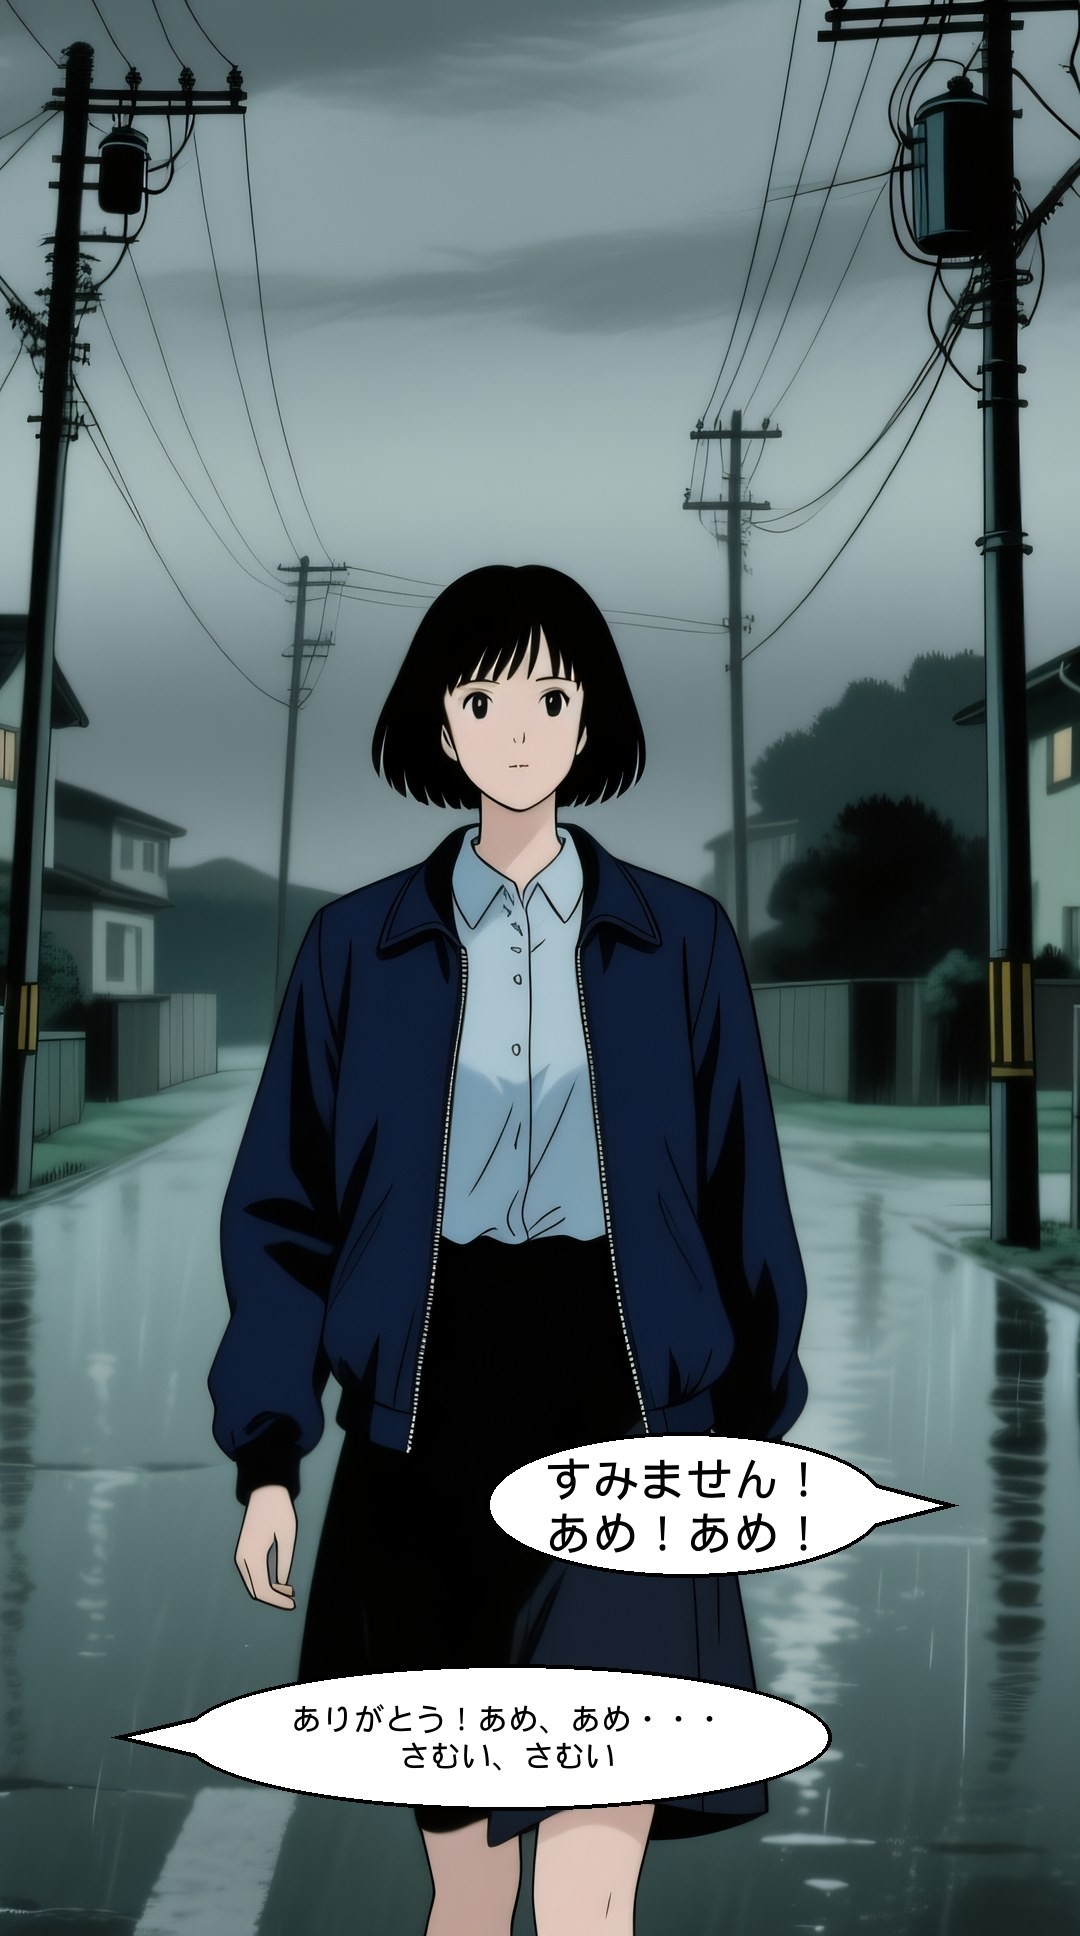
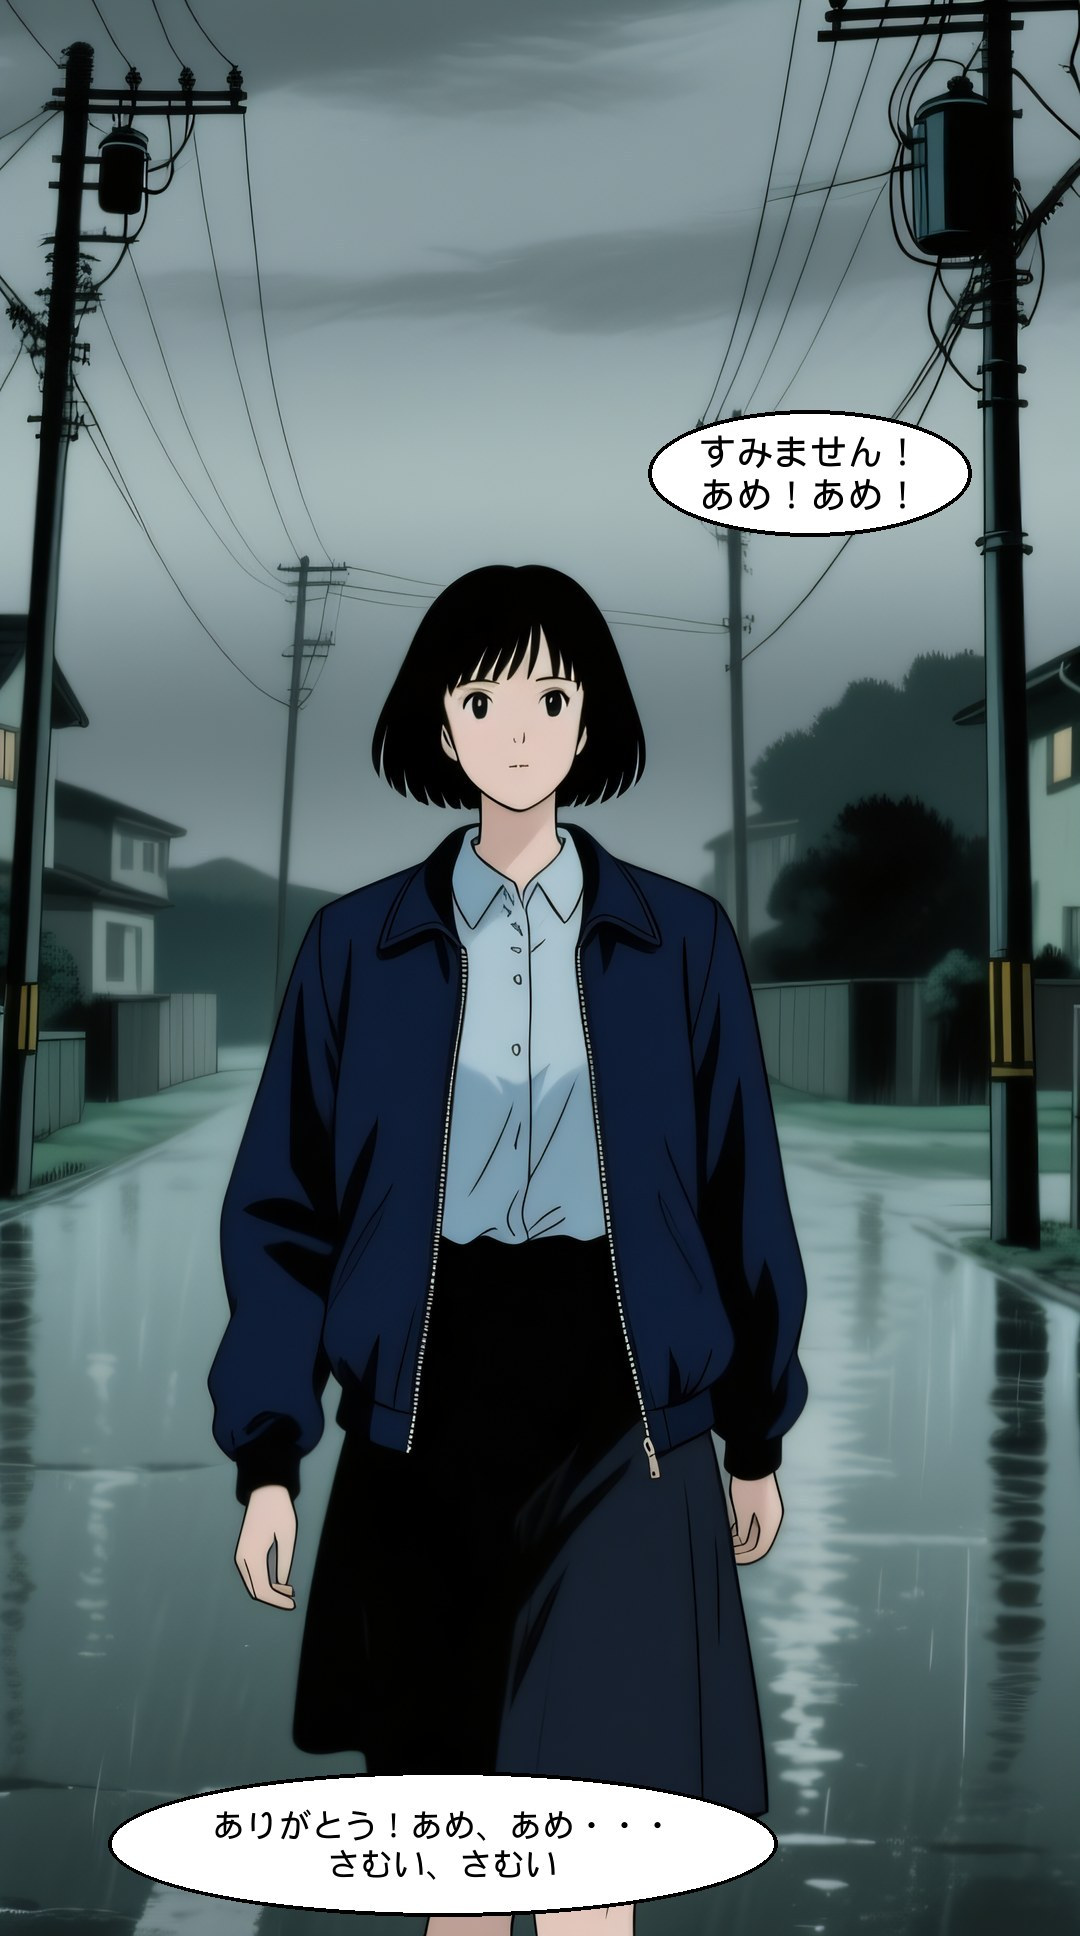
feat(comic): Schilder als Kasten, keine Off-Zeiger — Folge 01 neu gelettert
Blasen mit "form": "schild" (P1 みなみまち駅, P4 傘, P9 あめやどり) werden als
rechteckiges Schild-Etikett gezeichnet; Gesichts- und Nogo-Prüfung nutzen das
volle Rechteck. Das Feld "off" samt Zeiger-Zeichnung und -Prüfung ist
entfernt. Folge 01 beide Formate neu gelettert (ohne „…“-Blasen; P3 hoch,
P7 quer, P8 hoch weg von Miras Gesicht/Körper).

Claude-Session: https://claude.ai/code/session_01YT3vxdimKnf5CxqKiS26Tx

Changed region(s): [[0.0917, 0.7128, 0.8861, 0.9917], [0.5806, 0.186, 0.9167, 0.2789]]

diff --git a/tool/comic/letter_folge01.py b/tool/comic/letter_folge01.py
@@ -10,12 +10,12 @@ ueber das Bild legt (Erzaehlkasten oben, Mitmach-/Reaktionszeile unten). Eine Bl
 eine davon schneidet → ÜBERLAGERUNG (gleiche Ellipsen-Rechteck-Mathematik wie bei Gesichtern).
 Mindest-Schrift: faellt fit_font unter MIN_FONT (quer 34 px auf 1920 breit, hoch 30 px auf 1080
 breit) → KLEINSCHRIFT; Abhilfe ist immer eine groessere Blase im Layout, nie kleinere Schrift.
-Off-Zeiger: eine Blase mit "off": "left"|"right"|"top"|"bottom" spricht von ausserhalb des Bildes
-(Sprecher steht in dieser Richtung hinter dem Bildrand) und bekommt einen kurzen, spitz zulaufenden
-Zeiger (0,5 × Blasenhoehe lang) vom Ovalrand zu diesem Bildrand — gleiche Fuellung/Kontur wie das Oval.
-Der Zeiger-Keil wird wie die Ellipse auf Gesichter (GESICHT VERDECKT), Nogo-Zonen (ÜBERLAGERUNG),
-sichere Zone und Bildrand (SICHERE ZONE) geprueft; die Tippflaeche bleibt das Oval-Rechteck.
-Blasen ohne "off" werden unveraendert (byte-gleich) gezeichnet.
+Schilder: eine Blase mit "form": "schild" (Stations-, Laden-, Caféschild) wird als rechteckiges
+Schild-Etikett gezeichnet (gerade Kanten, duenne dunkle Kontur, helle Fuellung, kleiner Eckradius) statt
+als Oval — gleiche Schrift, Einpassung und Furigana. Gesichter und Nogo-Zonen werden dann gegen das
+volle Rechteck geprueft (Rechteck-Rechteck statt Ellipse-Rechteck). Ohne "form" bleibt es das Oval.
+Es gibt keine Zeiger: Spricht jemand von ausserhalb des Bildes, steht die Blase am Bildrand auf seiner
+Seite, und der Erzaehltext nennt ihn.
 Die Reihenfolge der Blasen je Panel und Format in folge01_layout.json ist verbindlich und muss der
 Reihenfolge in lib/features/story/episodes/folge_01_regen.dart entsprechen (geprueft von
 test/features/story/folge_01_layout_test.dart).
@@ -38,69 +38,19 @@ def out_name(pid, fmt, reaction=False):
     return pid + ("_reaction" if reaction else "") + ("_hoch" if fmt == "hoch" else "") + ".jpg"
 
 
-def _overlaps(slot, face):
+FORMS = ("oval", "schild")
+
+
+def _overlaps(slot, face, form="oval"):
+    """Schneidet die Blase (Ellipse im Rechteck slot, bei "schild" das volle Rechteck) das Rechteck face?"""
     sx, sy, sw, sh = slot
     fx, fy, fw, fh = face
+    if form == "schild":
+        return sx < fx + fw and fx < sx + sw and sy < fy + fh and fy < sy + sh
     cx, cy, rx, ry = sx + sw / 2, sy + sh / 2, sw / 2, sh / 2
     px = min(max(cx, fx), fx + fw)
     py = min(max(cy, fy), fy + fh)
     return ((px - cx) / rx) ** 2 + ((py - cy) / ry) ** 2 <= 1.0
-
-
-def _tri_hits_rect(tri, rect):
-    """Schneidet das Dreieck tri [(x,y)*3] das Rechteck rect [x,y,w,h]? (Trennachsen-Test)"""
-    rx, ry, rw, rh = rect
-    corners = [(rx, ry), (rx + rw, ry), (rx + rw, ry + rh), (rx, ry + rh)]
-    axes = [(1.0, 0.0), (0.0, 1.0)]
-    for i in range(3):
-        (ax, ay), (bx, by) = tri[i], tri[(i + 1) % 3]
-        axes.append((by - ay, ax - bx))
-    for nx, ny in axes:
-        t = [px * nx + py * ny for px, py in tri]
-        c = [px * nx + py * ny for px, py in corners]
-        if max(t) < min(c) or max(c) < min(t):
-            return False
-    return True
-
-
-OFF_DIRS = ("left", "right", "top", "bottom")
-TAIL_LEN = 0.5    # Zeigerlaenge ab Ovalrand, Anteil der Blasenhoehe
-TAIL_BASE = 0.4   # Zeigerbreite am Ansatz, Anteil der Blasenhoehe
-TAIL_SINK = 0.3   # Ansatz so weit (Anteil der kleinen Halbachse) ins Oval versenkt -> nahtloser Uebergang
-
-
-def tail_points(box, off):
-    """Zeiger-Keil einer Off-Blase in Pixeln: [Ansatz1, Ansatz2, Spitze]. box = (x0, y0, x1, y1) des Ovals."""
-    x0, y0, x1, y1 = box
-    cx, cy, rx, ry = (x0 + x1) / 2, (y0 + y1) / 2, (x1 - x0) / 2, (y1 - y0) / 2
-    h = y1 - y0
-    length, hb, sink = TAIL_LEN * h, TAIL_BASE * h / 2, TAIL_SINK * min(rx, ry)
-    if off in ("left", "right"):
-        s = 1 if off == "right" else -1
-        bx = cx + s * (rx * math.sqrt(1 - (hb / ry) ** 2) - sink)
-        return [(bx, cy - hb), (bx, cy + hb), (cx + s * (rx + length), cy)]
-    s = 1 if off == "bottom" else -1
-    by = cy + s * (ry * math.sqrt(1 - min(1.0, hb / rx) ** 2) - sink)
-    return [(cx - hb, by), (cx + hb, by), (cx, cy + s * (ry + length))]
-
-
-def tail_norm(b, W, H):
-    """Zeiger-Keil bildnormiert (fuer die Pruefung) oder None ohne "off"."""
-    if not b.get("off"):
-        return None
-    x, y, w, h = b["rect"]
-    return [(px / W, py / H) for px, py in tail_points((x * W, y * H, (x + w) * W, (y + h) * H), b["off"])]
-
-
-def _shrink(tri, d):
-    """Dreieck um d Pixel nach innen versetzt (Streckung um den Inkreismittelpunkt)."""
-    (ax, ay), (bx, by), (cx, cy) = tri
-    a, b, c = math.dist((bx, by), (cx, cy)), math.dist((ax, ay), (cx, cy)), math.dist((ax, ay), (bx, by))
-    p = a + b + c
-    ix, iy = (a * ax + b * bx + c * cx) / p, (a * ay + b * by + c * cy) / p
-    area = abs((bx - ax) * (cy - ay) - (cx - ax) * (by - ay)) / 2
-    k = max(0.0, 1 - d / (2 * area / p))
-    return [(ix + (px - ix) * k, iy + (py - iy) * k) for px, py in tri]
 
 
 def _in_safe_zone(rect, fmt, safe):
@@ -126,29 +76,17 @@ def check_layout(layout):
         for fmt, spec in formats.items():
             W, H = FORMAT_SIZE[fmt]
             for b in spec.get("bubbles", []):
+                form = b.get("form", "oval")
+                if form not in FORMS:
+                    msgs.append("FORM %s %s %r form=%r (erlaubt: %s)" % (pid, fmt, b["text"], form, "/".join(FORMS)))
                 for face in spec.get("faces", []):
-                    if _overlaps(b["rect"], face):
+                    if _overlaps(b["rect"], face, form):
                         msgs.append("GESICHT VERDECKT %s %s %r rect=%s face=%s" % (pid, fmt, b["text"], b["rect"], face))
                 for zone in spec.get("nogo", []):
-                    if _overlaps(b["rect"], zone):
+                    if _overlaps(b["rect"], zone, form):
                         msgs.append("ÜBERLAGERUNG %s %s %r rect=%s nogo=%s" % (pid, fmt, b["text"], b["rect"], zone))
                 if not _in_safe_zone(b["rect"], fmt, safe):
                     msgs.append("SICHERE ZONE %s %s %r rect=%s" % (pid, fmt, b["text"], b["rect"]))
-                if "off" in b and b["off"] not in OFF_DIRS:
-                    msgs.append("ZEIGER %s %s %r off=%r (erlaubt: %s)" % (pid, fmt, b["text"], b["off"], "/".join(OFF_DIRS)))
-                elif b.get("off"):
-                    tri = tail_norm(b, W, H)
-                    xs, ys = [p[0] for p in tri], [p[1] for p in tri]
-                    bbox = [min(xs), min(ys), max(xs) - min(xs), max(ys) - min(ys)]
-                    for face in spec.get("faces", []):
-                        if _tri_hits_rect(tri, face):
-                            msgs.append("GESICHT VERDECKT %s %s %r Zeiger=%s face=%s" % (pid, fmt, b["text"], b["off"], face))
-                    for zone in spec.get("nogo", []):
-                        if _tri_hits_rect(tri, zone):
-                            msgs.append("ÜBERLAGERUNG %s %s %r Zeiger=%s nogo=%s" % (pid, fmt, b["text"], b["off"], zone))
-                    if not _in_safe_zone(bbox, fmt, safe) or min(xs) < 0 or min(ys) < 0 or max(xs) > 1 or max(ys) > 1:
-                        msgs.append("SICHERE ZONE %s %s %r Zeiger=%s bbox=%s" % (pid, fmt, b["text"], b["off"],
-                                                                              [round(v, 4) for v in bbox]))
                 size = bubble_font(draw, b, W, H)[1].size
                 if size < MIN_FONT[fmt]:
                     msgs.append("KLEINSCHRIFT %s %s %s %dpx" % (pid, fmt, b["text"], size))
@@ -207,19 +145,20 @@ def bubble_font(draw, b, W, H):
     return box, font, reserve, shown
 
 
+SCHILD_FILL = (246, 242, 230)   # helles, leicht warmes Schildweiss
+SCHILD_LINE = (40, 40, 40)
+SCHILD_RADIUS = 6               # Pixel — hoechstens ein angedeuteter Eckradius
+
+
 def letter(img, bubbles):
     draw = ImageDraw.Draw(img)
     W, H = img.size
     for b in bubbles:
         furi = b.get("furigana")
         box, font, reserve, shown = bubble_font(draw, b, W, H)
-        if b.get("off"):
-            # Zeiger + Oval als eine Form: schwarzer Keil, weisses Oval mit Kontur darueber,
-            # dann der um die Konturbreite geschrumpfte weisse Keil (loescht die Naht am Ansatz).
-            tri = tail_points(box, b["off"])
-            draw.polygon(tri, fill="black")
-            draw.ellipse(box, fill="white", outline="black", width=4)
-            draw.polygon(_shrink(tri, 4), fill="white")
+        if b.get("form") == "schild":
+            # Schild-Etikett: Rechteck mit duenner dunkler Kontur, heller Fuellung, kleinem Eckradius.
+            draw.rounded_rectangle(box, radius=SCHILD_RADIUS, fill=SCHILD_FILL, outline=SCHILD_LINE, width=3)
         else:
             draw.ellipse(box, fill="white", outline="black", width=4)
         l, t, r, bb = draw.multiline_textbbox((0, 0), shown, font=font)

diff --git a/tool/comic/test_letter.py b/tool/comic/test_letter.py
@@ -70,62 +70,51 @@ class CheckLayout(unittest.TestCase):
         self.assertEqual(lf.out_name("p02", "hoch", reaction=True), "p02_reaction_hoch.jpg")
 
 
-class OffTail(unittest.TestCase):
-    """Off-Zeiger: Keil vom Ovalrand zum Bildrand, wird wie die Ellipse geprueft."""
+class Schild(unittest.TestCase):
+    """Schilder ("form": "schild"): rechteckiges Etikett, Pruefung gegen das volle Rechteck."""
 
-    def off_layout(self, rect, off, face=None, fmt="quer"):
+    def schild_layout(self, rect, face=None, fmt="quer", form="schild"):
         lay = layout(rect, face=face, fmt=fmt)
-        lay["panels"]["p01"][fmt]["bubbles"][0]["off"] = off
+        lay["panels"]["p01"][fmt]["bubbles"][0]["form"] = form
         return lay
 
-    def test_tail_points_toward_edge(self):
-        box = (100.0, 200.0, 500.0, 300.0)   # Oval 400 x 100, Mitte (300, 250)
-        tips = {off: lf.tail_points(box, off)[2] for off in lf.OFF_DIRS}
-        self.assertEqual(tips["right"], (550.0, 250.0))   # 0,5 x Hoehe hinter dem Ovalrand
-        self.assertEqual(tips["left"], (50.0, 250.0))
-        self.assertEqual(tips["bottom"], (300.0, 350.0))
-        self.assertEqual(tips["top"], (300.0, 150.0))
-        for off in lf.OFF_DIRS:   # Ansatz liegt im Oval → nahtlose Form
-            for px, py in lf.tail_points(box, off)[:2]:
-                self.assertLess(((px - 300) / 200) ** 2 + ((py - 250) / 50) ** 2, 1.0, off)
+    def test_schild_clear_is_ok(self):
+        self.assertEqual(lf.check_layout(self.schild_layout([0.2, 0.2, 0.3, 0.1])), [])
 
-    def test_tail_clear_is_ok(self):
-        self.assertEqual(lf.check_layout(self.off_layout([0.2, 0.2, 0.3, 0.1], "left")), [])
-
-    def test_tail_over_face_is_violation(self):
-        # Gesicht rechts neben dem Oval: Oval frei, nur der Zeiger nach rechts trifft es
-        rect, face = [0.2, 0.2, 0.3, 0.1], [0.51, 0.24, 0.03, 0.02]
+    def test_corner_hit_counts_for_schild_not_for_oval(self):
+        # Gesicht nur in der Rechteck-Ecke: das Oval laesst es frei, das Schild verdeckt es
+        rect, face = [0.2, 0.2, 0.3, 0.1], [0.48, 0.28, 0.05, 0.05]
         self.assertEqual(lf.check_layout(layout(rect, face=face)), [])
-        msgs = lf.check_layout(self.off_layout(rect, "right", face=face))
+        msgs = lf.check_layout(self.schild_layout(rect, face=face))
         self.assertEqual(len(msgs), 1, msgs)
-        self.assertTrue(msgs[0].startswith("GESICHT VERDECKT p01 quer") and "Zeiger=right" in msgs[0], msgs)
-        self.assertEqual(lf.check_layout(self.off_layout(rect, "left", face=face)), [])
+        self.assertTrue(msgs[0].startswith("GESICHT VERDECKT p01 quer"), msgs)
 
-    def test_tail_over_nogo_and_out_of_safe_zone(self):
-        lay = self.off_layout([0.2, 0.3, 0.3, 0.1], "top")
-        lay["panels"]["p01"]["quer"]["nogo"] = [[0.0, 0.0, 1.0, 0.27]]
-        self.assertTrue(any(m.startswith("ÜBERLAGERUNG") and "Zeiger=top" in m for m in lf.check_layout(lay)))
-        msgs = lf.check_layout(self.off_layout([0.2, 0.11, 0.3, 0.1], "top"))
-        self.assertTrue(any(m.startswith("SICHERE ZONE") and "Zeiger=top" in m for m in msgs), msgs)
-        msgs = lf.check_layout(self.off_layout([0.12, 0.3, 0.3, 0.06], "left", fmt="hoch"))
-        self.assertTrue(any(m.startswith("SICHERE ZONE") and "Zeiger=left" in m for m in msgs), msgs)
+    def test_corner_hit_on_nogo(self):
+        lay = self.schild_layout([0.2, 0.3, 0.3, 0.1])
+        lay["panels"]["p01"]["quer"]["nogo"] = [[0.0, 0.0, 0.21, 0.305]]
+        self.assertTrue(any(m.startswith("ÜBERLAGERUNG") for m in lf.check_layout(lay)))
+        lay["panels"]["p01"]["quer"]["bubbles"][0].pop("form")
+        self.assertEqual(lf.check_layout(lay), [])
 
-    def test_bad_direction(self):
-        msgs = lf.check_layout(self.off_layout([0.2, 0.2, 0.3, 0.1], "up"))
-        self.assertTrue(msgs and msgs[0].startswith("ZEIGER p01 quer"), msgs)
+    def test_bad_form(self):
+        msgs = lf.check_layout(self.schild_layout([0.2, 0.2, 0.3, 0.1], form="wolke"))
+        self.assertTrue(msgs and msgs[0].startswith("FORM p01 quer"), msgs)
 
-    def test_tail_drawn_only_with_off(self):
+    def test_schild_drawn_as_rectangle(self):
         from PIL import Image
-        rect = [0.2, 0.3, 0.3, 0.2]
-        plain = lf.letter(Image.new("RGB", (1600, 800), (90, 90, 90)), [{"text": "…", "rect": rect}])
-        tailed = lf.letter(Image.new("RGB", (1600, 800), (90, 90, 90)), [{"text": "…", "rect": rect, "off": "right"}])
-        # Oval x 320–800, y 240–400 (Mitte y 320, Hoehe 160 → Zeiger 80 px bis x 880)
-        self.assertEqual(plain.getpixel((830, 320)), (90, 90, 90))
-        self.assertEqual(tailed.getpixel((830, 320)), (255, 255, 255))
-        self.assertEqual(tailed.getpixel((890, 320)), (90, 90, 90))
-        # keine Naht: an der Ovalkontur (x 797) auf Mittelhoehe ist es mit Zeiger weiss
-        self.assertEqual(plain.getpixel((797, 320)), (0, 0, 0))
-        self.assertEqual(tailed.getpixel((797, 320)), (255, 255, 255))
+        rect = [0.2, 0.3, 0.3, 0.2]   # x 320–800, y 240–400
+        oval = lf.letter(Image.new("RGB", (1600, 800), (90, 90, 90)), [{"text": "あ", "rect": rect}])
+        schild = lf.letter(Image.new("RGB", (1600, 800), (90, 90, 90)),
+                           [{"text": "あ", "rect": rect, "form": "schild"}])
+        # nahe der Ecke: Oval laesst den Hintergrund, das Schild ist gefuellt
+        self.assertEqual(oval.getpixel((340, 260)), (90, 90, 90))
+        self.assertEqual(schild.getpixel((340, 260)), lf.SCHILD_FILL)
+        # gerade Kontur an der Oberkante
+        self.assertEqual(schild.getpixel((560, 241)), lf.SCHILD_LINE)
+
+    def test_no_off_tails_anymore(self):
+        self.assertFalse(hasattr(lf, "tail_points"))
+        self.assertFalse(hasattr(lf, "OFF_DIRS"))
 
 
 class Wrap(unittest.TestCase):

diff --git a/tool/comic/gen_layout_dart.py b/tool/comic/gen_layout_dart.py
@@ -2,7 +2,7 @@
 """Erzeugt lib/features/story/episodes/folge_01_layout.g.dart aus folge01_layout.json (INV-14).
 Formatiert die Ausgabe am Ende selbst mit `dart format` (bricht ab, wenn dart fehlt), damit die
 eingecheckte Datei byteweise dem Generator-Lauf entspricht.
-Tippflaeche = Oval-Rechteck "rect"; ein Off-Zeiger ("off") gehoert nicht zur Tippflaeche und wird ignoriert.
+Tippflaeche = Blasen-Rechteck "rect" (Oval wie Schild, "form" aendert sie nicht).
 Aufruf im Repo-Wurzelverzeichnis: python3 tool/comic/gen_layout_dart.py"""
 import json
 import os
